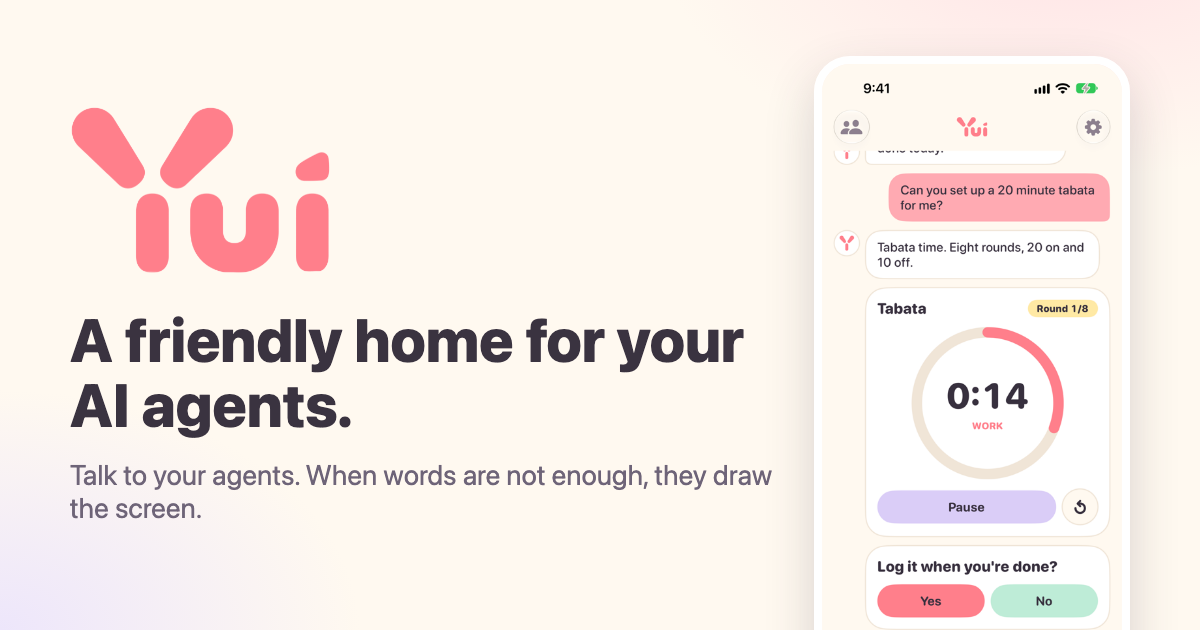
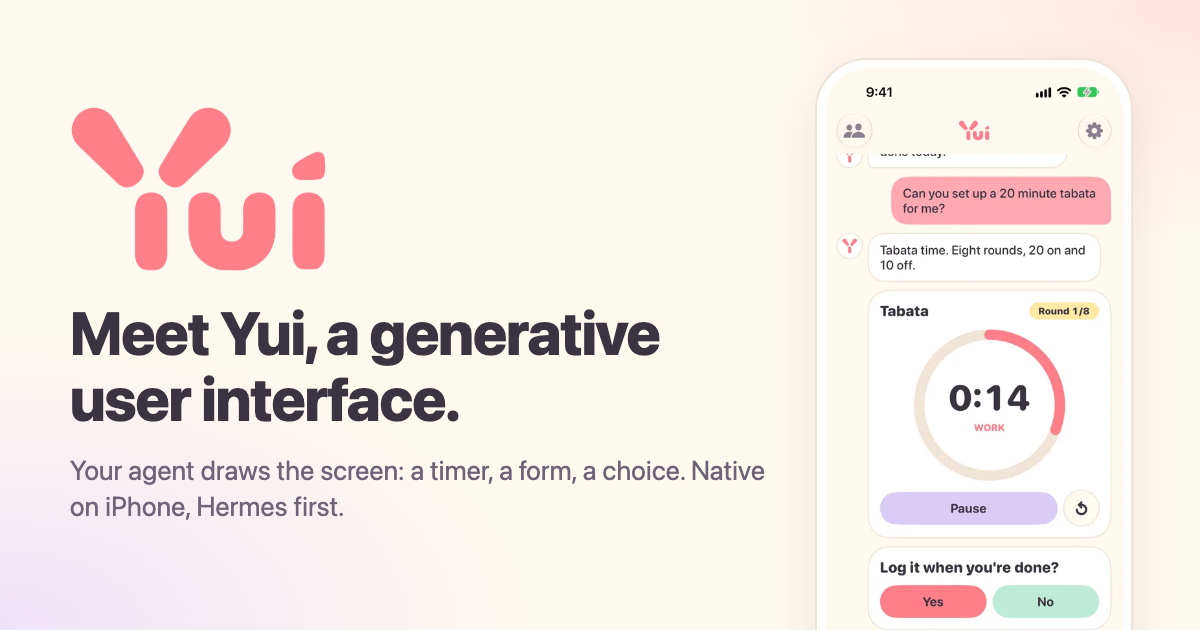
Lead with the generative UI: "Meet Yui, a generative user interface." (SITE-12)
Hero, title, meta description, OG title/description and the OG image now say
what Yui is and what works today: the agent draws the screen (timer, form,
choice), native iPhone, Hermes first. The "friendly home" line is gone from the
site, README and BIZ-1 docs. Who-it-is-for cards mark today vs roadmap.
Progress entry with hero and share-card screenshots.

diff --git a/site/app/page.js b/site/app/page.js
@@ -4,16 +4,16 @@ import links from "../content/links.json";
 import MvpBar from "./components/MvpBar";
 
 const what = [
-  ["Chat first", "Talk to your agent the way you text a friend. Type it or say it."],
   ["Screens, not walls of text", "Ask for a workout and get a timer. Get asked a question and get buttons. Change your answer any time."],
+  ["Chat when words are enough", "Talk to your agent the way you text a friend. Type it or say it."],
   ["Every agent looks like itself", "Each agent gets its own name chip and colors, so you always know who you are talking to."],
   ["Your agents stay yours", "Yui connects to agents you already run. You add them, rename them and remove them."],
 ];
 
 const who = [
-  ["H", "var(--brand)", "People who run Hermes", "Hermes comes first. A small plugin on your own machine connects your Hermes profiles, and each one shows up in Yui as its own agent."],
-  ["O", "var(--lavender)", "People with other agents", "OpenClaw and other setups come next, through the same connector. If your agent can send a message, it can draw a screen."],
-  ["+", "var(--mint)", "People with no agent yet", "Starter agents come later, for anyone who wants the app without setting anything up."],
+  ["H", "var(--brand)", "People who run Hermes", "Works today. A small plugin on your own machine connects your Hermes profiles, and each one shows up in Yui as its own agent."],
+  ["O", "var(--lavender)", "People with other agents", "Next on the roadmap. OpenClaw and other setups connect through the same connector. If your agent can send a message, it can draw a screen."],
+  ["+", "var(--mint)", "People with no agent yet", "Later on the roadmap. Starter agents, for anyone who wants the app without setting anything up."],
 ];
 
 const shots = [
@@ -34,10 +34,10 @@ export default function Home() {
       <section className="hero">
         <div>
           <div className="eyebrow">Built in public | open source</div>
-          <h1>A friendly home for your AI agents.</h1>
+          <h1>Meet Yui, a generative user interface.</h1>
           <p className="lede">
-            Yui is an iPhone app for talking to the agents you already run. When words are not enough,
-            your agent draws the screen: a timer, a form, a quick choice. You tap, and it keeps going.
+            Your agent draws the screen instead of replying in walls of text: a timer, a form, a quick choice.
+            You tap, and it keeps going. A native iPhone app, built for Hermes first.
           </p>
           <div className="cta">
             {links.testflight
@@ -55,7 +55,7 @@ export default function Home() {
 
       <MvpBar />
 
-      <h2>What Yui is</h2>
+      <h2>What works today</h2>
       <div className="grid">
         {what.map(([t, d]) => (
           <div className="card" key={t}><h3>{t}</h3><p>{d}</p></div>

diff --git a/site/app/layout.js b/site/app/layout.js
@@ -11,9 +11,9 @@ const themeInit = `try{var t=localStorage.getItem("yui-theme");document.document
 
 export const metadata = {
   metadataBase: new URL("https://www.yuigui.com"),
-  title: "Yui | a home for your AI agents",
-  description: "Yui is an iPhone app for talking to your AI agents. When words are not enough, your agent draws the screen: a timer, a form, a choice.",
-  openGraph: { title: "Yui | a home for your AI agents", description: "Talk to your agents. When words are not enough, they draw the screen.", url: "https://www.yuigui.com", siteName: "Yui", type: "website" },
+  title: "Yui | a generative user interface",
+  description: "Meet Yui, a generative user interface. Your agent draws the screen instead of replying in walls of text: a timer, a form, a choice. A native iPhone app, built for Hermes first.",
+  openGraph: { title: "Meet Yui, a generative user interface.", description: "Your agent draws the screen: a timer, a form, a choice. A native iPhone app, built for Hermes first.", url: "https://www.yuigui.com", siteName: "Yui", type: "website" },
   twitter: { card: "summary_large_image" },
 };
 

diff --git a/docs/business/BIZ-1-marketing-positioning.md b/docs/business/BIZ-1-marketing-positioning.md
@@ -6,7 +6,7 @@ Companion docs: [BIZ-3 revenue models and mission principles](https://www.yuigui
 
 ## The short version
 
-- **One line:** Yui is a beautiful native home for the agents you already run.
+- **One line:** Meet Yui, a generative user interface. (Chris picked it Sep 24 2026; it leads the site.)
 - **The line under it:** your agent stops describing things and starts showing them. A question becomes two buttons, a workout becomes a timer, a plan becomes a screen you can tap.
 - **Who first:** people who already run Hermes. Then OpenClaw and other self-hosted agent people. Then anyone with an AI subscription.
 - **What sets it apart:** your agent draws native iPhone screens, not web pages in a frame, and Hermes agents get a screen for the first time. Phone apps for self-hosted agents already exist (OpenClaw's own app, Hermex); agent-drawn native screens do not.
@@ -29,9 +29,11 @@ Every line of copy, every launch post and every metric below gets checked agains
 
 ### One line
 
-**Yui: a beautiful native home for the agents you already run.**
+**Meet Yui, a generative user interface.**
 
-Alternates, for testing on the site and in posts:
+Chris picked this line on Sep 24 2026, and the site hero uses it. The first draft pitched Yui as a nicer place to talk to the agents you already run. The competitor notes show why that lost: phone apps for self-hosted agents already exist, so a place to talk to agents is not what sets Yui apart. The screens are.
+
+Alternates, for testing in posts:
 
 - "Your agents, on a screen that fits them."
 - "Stop reading your agent. Start using it."
@@ -275,6 +277,6 @@ Few, honest, and tied to the guardrail. Track weekly in the Friday update where 
 
 ## Open questions for Chris
 
-1. The one line: "a beautiful native home for the agents you already run" or one of the alternates? Pick one and the site hero follows (SITE-1).
+1. The one line: answered Sep 24 2026. "Meet Yui, a generative user interface." The site hero follows it (SITE-12).
 2. Show HN timing: wait for the Stage 2 gate (my recommendation), or go earlier with Hermes-only support?
 3. Who posts: launch posts under Chris's name (best for Show HN) or the yuiguiai handles?

diff --git a/site/content/business/BIZ-1-marketing-positioning.md b/site/content/business/BIZ-1-marketing-positioning.md
@@ -6,7 +6,7 @@ Companion docs: [BIZ-3 revenue models and mission principles](https://www.yuigui
 
 ## The short version
 
-- **One line:** Yui is a beautiful native home for the agents you already run.
+- **One line:** Meet Yui, a generative user interface. (Chris picked it Sep 24 2026; it leads the site.)
 - **The line under it:** your agent stops describing things and starts showing them. A question becomes two buttons, a workout becomes a timer, a plan becomes a screen you can tap.
 - **Who first:** people who already run Hermes. Then OpenClaw and other self-hosted agent people. Then anyone with an AI subscription.
 - **What sets it apart:** your agent draws native iPhone screens, not web pages in a frame, and Hermes agents get a screen for the first time. Phone apps for self-hosted agents already exist (OpenClaw's own app, Hermex); agent-drawn native screens do not.
@@ -29,9 +29,11 @@ Every line of copy, every launch post and every metric below gets checked agains
 
 ### One line
 
-**Yui: a beautiful native home for the agents you already run.**
+**Meet Yui, a generative user interface.**
 
-Alternates, for testing on the site and in posts:
+Chris picked this line on Sep 24 2026, and the site hero uses it. The first draft pitched Yui as a nicer place to talk to the agents you already run. The competitor notes show why that lost: phone apps for self-hosted agents already exist, so a place to talk to agents is not what sets Yui apart. The screens are.
+
+Alternates, for testing in posts:
 
 - "Your agents, on a screen that fits them."
 - "Stop reading your agent. Start using it."
@@ -275,6 +277,6 @@ Few, honest, and tied to the guardrail. Track weekly in the Friday update where 
 
 ## Open questions for Chris
 
-1. The one line: "a beautiful native home for the agents you already run" or one of the alternates? Pick one and the site hero follows (SITE-1).
+1. The one line: answered Sep 24 2026. "Meet Yui, a generative user interface." The site hero follows it (SITE-12).
 2. Show HN timing: wait for the Stage 2 gate (my recommendation), or go earlier with Hermes-only support?
 3. Who posts: launch posts under Chris's name (best for Show HN) or the yuiguiai handles?

diff --git a/docs/business/BIZ-1-competitors.md b/docs/business/BIZ-1-competitors.md
@@ -171,7 +171,7 @@ Small Hermes iOS repos also exist (Bourbon24k/hermes-agent-ios, tinyleed/hermes-
 - **Platforms:** Go, Bun and Electron. macOS download.
 - **Mobile:** none verified.
 - **Source:** https://github.com/gluonfield/jaz
-- **Why it matters:** its positioning overlaps Yui's "home for your agents" pitch.
+- **Why it matters:** its positioning overlaps Yui's first "place for your agents" pitch, since dropped.
 
 ### Pal Chat (iOS)
 - **What it is:** closed-source native Apple client.
@@ -348,7 +348,7 @@ Other results:
 ## Gaps nobody fills (blunt read)
 
 **Where Yui is NOT differentiated. Don't claim these:**
-1. **"A phone home for your self-hosted agent."**
+1. **"A phone app for your self-hosted agent."**
    - OpenClaw has an official, free, native iOS/Android/Watch app.
    - Hermes already has Hermex (free, MIT, native SwiftUI, 93 ratings), Conduit (Flutter, lists Hermes), Onepilot (paid) and the hermes-webui PWA.
    - Telegram is the default, and it works.

diff --git a/site/content/business/BIZ-1-competitors.md b/site/content/business/BIZ-1-competitors.md
@@ -171,7 +171,7 @@ Small Hermes iOS repos also exist (Bourbon24k/hermes-agent-ios, tinyleed/hermes-
 - **Platforms:** Go, Bun and Electron. macOS download.
 - **Mobile:** none verified.
 - **Source:** https://github.com/gluonfield/jaz
-- **Why it matters:** its positioning overlaps Yui's "home for your agents" pitch.
+- **Why it matters:** its positioning overlaps Yui's first "place for your agents" pitch, since dropped.
 
 ### Pal Chat (iOS)
 - **What it is:** closed-source native Apple client.
@@ -348,7 +348,7 @@ Other results:
 ## Gaps nobody fills (blunt read)
 
 **Where Yui is NOT differentiated. Don't claim these:**
-1. **"A phone home for your self-hosted agent."**
+1. **"A phone app for your self-hosted agent."**
    - OpenClaw has an official, free, native iOS/Android/Watch app.
    - Hermes already has Hermex (free, MIT, native SwiftUI, 93 ratings), Conduit (Flutter, lists Hermes), Onepilot (paid) and the hermes-webui PWA.
    - Telegram is the default, and it works.

diff --git a/README.md b/README.md
@@ -1,6 +1,6 @@
 # Yui
 
-Yui is a phone app for talking to your own AI agents. You chat like normal. When a button, a timer or a table would work better than text, the agent puts one on the screen, and your taps go straight back to it.
+Meet Yui, a generative user interface. Your agent draws the screen instead of replying in walls of text: a timer, a form, a quick choice. You chat like normal, and when a button or a timer would work better than text, the agent puts one on the screen. Your taps go straight back to it. Native on iPhone, Hermes first.
 
 It is not another chatbot. Yui brings no brain of its own. You bring the agent (Hermes first, others later), and Yui gives it a face, a voice and a screen it can draw on.
 
